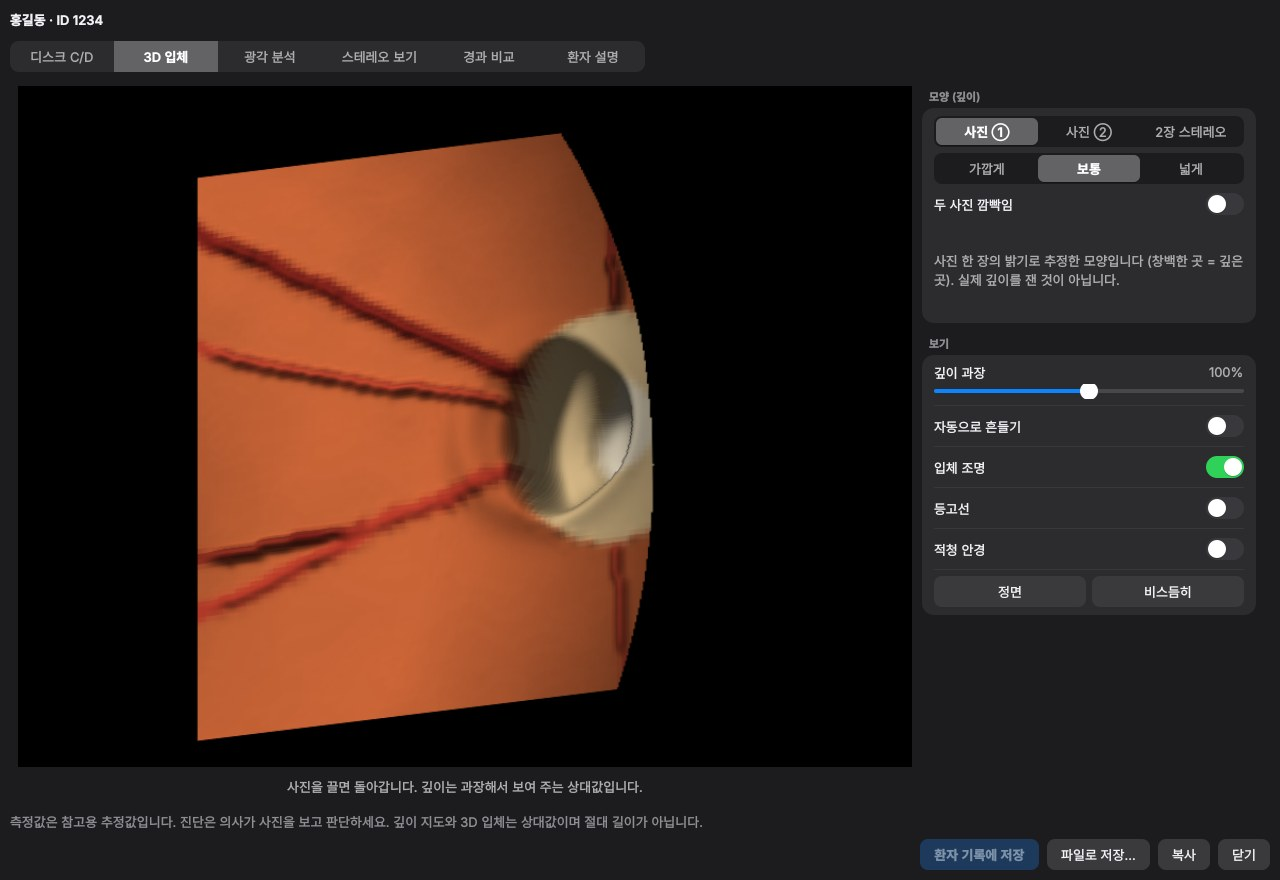
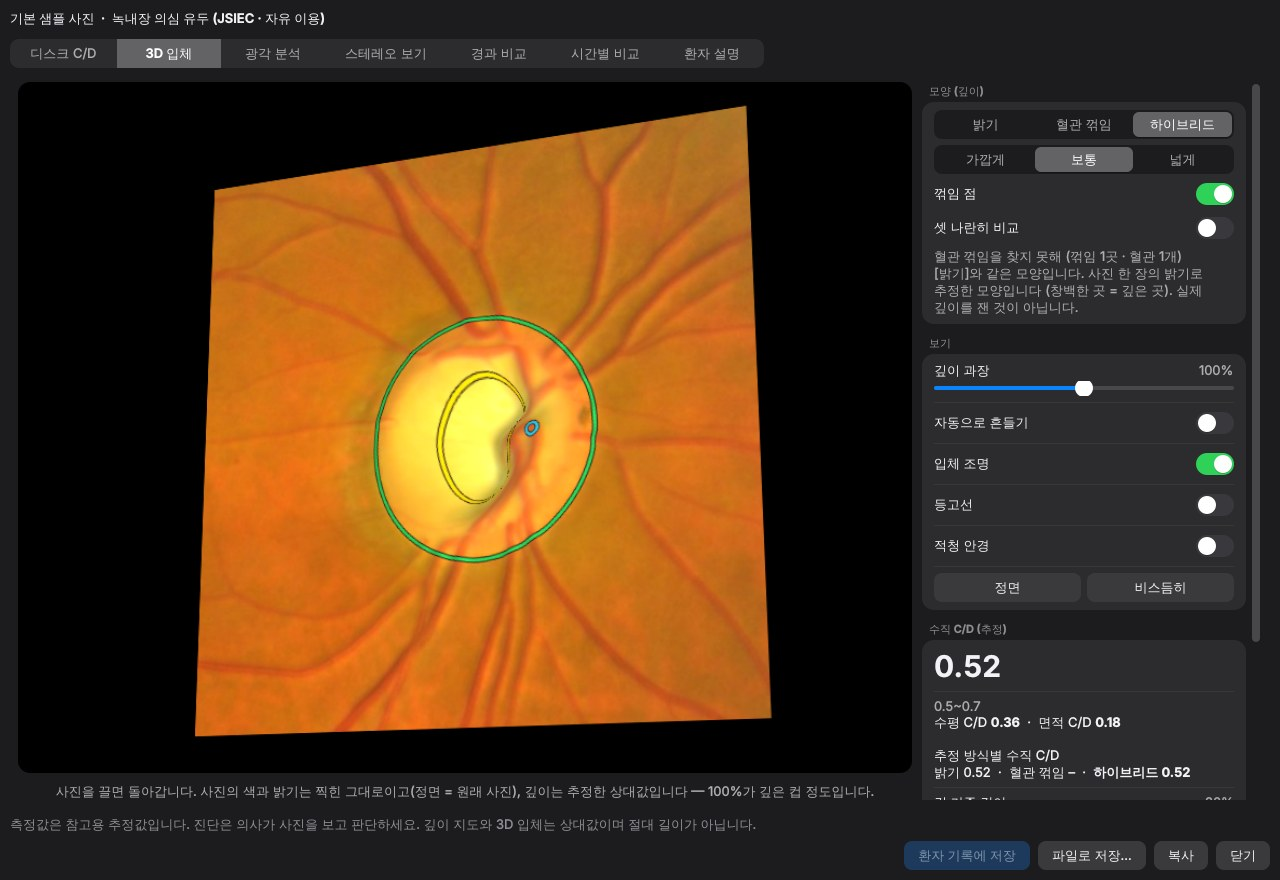
안저 뷰어 0.13.4: 녹내장 분석 · 3D 입체 — 사진 그대로, 자연스러운 깊이 (#117)
3D 입체가 인위적으로 보이던 것을 고쳤다: 찍힌 사진 그대로를 입체 위에 입힌다.

* 사진의 색과 밝기는 그대로: 비스듬한 가상 조명을 강하게 덧씌우던 것(창백한 컵이 검은 구덩이로, 반대쪽에서는 하얗게)을 없앴다. 사진은 카메라 쪽 빛으로 찍혀 그 음영이 이미 들어 있으므로 정면은 원래 사진과 같고, 돌려 볼 때만 보는 쪽으로 향한 경사면을 조금 밝게 · 등진 경사면을 조금 어둡게 한다(disc3d.shade — 사진 밝기의 0.75 ~ 1.14배 안에서).
* 혈관은 제 굵기의 절반쯤만, 길이 방향으로 고르게 솟는다(구슬 꿴 돋을새김이 아니게: VESSEL_H 0.14 → 0.07, 어둡기에 따라 높이가 오르내리지 않음).
* 깊이는 실제에 가깝게: 100%에서 가장 깊은 곳이 유두 지름의 0.4배(전에는 0.5배).
* 원근: 기울이면 가까운 쪽이 조금 크게 보인다(disc3d.render의 perspective, 3D 탭은 사진 변 길이의 3배 거리).
* 디스크 · 컵 선과 꺾임 점을 조금 가늘게. 추정 방식과 C/D 추정값은 그대로(합성 유두 평균 오차 0.026).
* README · 변경 내역 · docs/disc_3d.jpg(실제 샘플 사진의 새 화면).

Claude-Session: https://claude.ai/code/session_01SGHFuh2LCE27KasutS4pQG

diff --git a/fundusview/disc3d.py b/fundusview/disc3d.py
@@ -4,13 +4,15 @@ A photo gives the disc's colour, the surface needs its shape. Two ways to a shap
 
 * one photo (:func:`height_from_photo`) — an **estimate from brightness**: the cup is the pale
   part of the disc, so the paler the deeper; the rim stands a little above the retina and the
-  vessels above the surface. A picture of the shape a viewer expects, not a measurement;
+  vessels a little above the surface. A picture of the shape a viewer expects, not a measurement;
 * two photos of the same disc from slightly different positions (:func:`height_from_stereo`) —
   the **parallax** between them (``glaucoma.disparity``): what moves more is deeper. Relative
   depth, not a length.
 
 :func:`render` then draws the photo on that surface seen from any direction — an exact view of
-the height field (nearer parts hide farther ones), computed without OpenGL.
+the height field (nearer parts hide farther ones), computed without OpenGL. It is the photo that is
+seen: its own colours and its own light (:func:`shade` adds only what turning it changes), at the
+depth a real cup has — the front view is the photo as it was taken.
 
 Heights run from -1 (deepest) to about +1, 0 = the retina around the disc; x right, y down.
 """
@@ -25,14 +27,16 @@ import numpy as np
 from . import glaucoma as G
 
 TEX_PX = 640             # side of the disc-centred texture (and of the picture drawn from it)
-DEPTH_DD = 0.5           # depth of height -1 at 100 %: half a disc diameter (the cup, exaggerated)
+DEPTH_DD = 0.4           # depth of height -1 at 100 %: 0.4 disc diameters — about a deep cup's (0.7 mm)
 RIM_H = 0.16             # the neuroretinal rim / peripapillary retina, raised a little
-VESSEL_H = 0.14          # a vessel's top
+VESSEL_H = 0.07          # a vessel's top: about half its width above the surface it lies on
 CUP_GAMMA = 2.2          # one photo: depth against pallor (1 = the whole pale disc is the hollow)
 SOLVE_PX = 320           # render: side of the grid the visible surface is solved on
 MIN_PARALLAX_PX = 1.0    # stereo: less parallax than this (at the analysis width) is no depth
-MIN_LIGHT_Z = 0.35       # shade: the light is never lower over the photo's plane than this
-LIGHT = (-0.45, -0.55, 0.70)     # the light in view space: from the upper left, towards the viewer
+SHADE = 0.8              # shade: how much a slope's turn to or from the viewer lightens / darkens it
+SHADE_RANGE = (0.75, 1.14)       # … and never more than this (the photo keeps its own colours)
+MIN_VIEW_Z = 0.5         # shade: the viewer is never lower over the photo's plane than this
+VIEW_DIST = 3.0          # the 3D tab's camera: this many sides of the picture away (a slight perspective)
 
 
 def _smoothstep(x: np.ndarray) -> np.ndarray:
@@ -110,8 +114,9 @@ def _finish(H: np.ndarray, p: dict) -> np.ndarray:
     vk = 2 * max(1, int(round(rd * 0.09))) + 1
     hat = cv2.morphologyEx(g, cv2.MORPH_BLACKHAT, cv2.getStructuringElement(cv2.MORPH_ELLIPSE, (vk, vk)))
     top = float(np.percentile(hat, 99.5))
-    if top > 4.0:                                               # (below a third of the darkest: grain, not vessels)
-        H = H + VESSEL_H * cv2.GaussianBlur(np.clip((hat / top - 0.33) / 0.67, 0.0, 1.0), (0, 0), 1.2)
+    if top > 4.0:                                               # (below a sixth of the darkest: grain, not vessels)
+        # as high all along a vessel, whatever its darkness from place to place: a rounded ridge, not beads
+        H = H + VESSEL_H * cv2.GaussianBlur(_smoothstep((hat / top - 0.15) / 0.30), (0, 0), 1.4)
     H = cv2.GaussianBlur(H, (0, 0), max(0.8, rd * 0.035))
     return np.clip(H * _edge_taper(n), -1.0, 1.0).astype(np.float32)
 
@@ -641,23 +646,29 @@ def rotation(yaw_deg: float, pitch_deg: float) -> np.ndarray:
 
 def shade(tex: np.ndarray, H: np.ndarray, depth_px: float, R: np.ndarray, strength: float = 1.0,
           contours: bool = False) -> np.ndarray:
-    """The photo lit from the upper left of the view (slopes towards the light are brighter),
-    with lines of equal height when ``contours``."""
+    """The photo as it was taken, with the little the view adds: a slope turned towards the viewer is
+    a touch lighter, one turned away a touch darker (and lines of equal height when ``contours``).
+
+    The photo was lit along the camera's axis, and that light is in it already — a pale cup is pale,
+    not a dark pit. So nothing is shaded from the front (the front view is the photo itself), and
+    turned, only what the turn changes: as if the examiner's light went round with them. Kept within
+    ``SHADE_RANGE``: the photo keeps its own colours.
+    """
     n = tex.shape[0]
     Hf = cv2.resize(H, (n, n), interpolation=cv2.INTER_CUBIC) if H.shape[0] != n else H
     out = tex.astype(np.float32)
     if strength > 0.0 and depth_px > 0.0:
-        z = Hf * depth_px
+        z = cv2.GaussianBlur(Hf * depth_px, (0, 0), max(0.8, n / 256.0))
         gx = cv2.Sobel(z, cv2.CV_32F, 1, 0, ksize=3) / 8.0
         gy = cv2.Sobel(z, cv2.CV_32F, 0, 1, ksize=3) / 8.0
-        L = R.T @ (np.asarray(LIGHT, np.float64) / np.linalg.norm(LIGHT))    # the light in the object's frame
-        if L[2] < MIN_LIGHT_Z:                                   # turned far: the light stays in front of the
-            xy = float(np.hypot(L[0], L[1]))                     # sheet (behind it the whole photo went dark)
-            L = np.array([L[0] / xy * math.sqrt(1.0 - MIN_LIGHT_Z ** 2), L[1] / xy * math.sqrt(1.0 - MIN_LIGHT_Z ** 2),
-                          MIN_LIGHT_Z])
-        lit = (-gx * L[0] - gy * L[1] + L[2]) / np.sqrt(gx * gx + gy * gy + 1.0)
-        k = np.clip(1.0 + strength * (lit / float(L[2]) - 1.0), 0.35, 1.6)      # (the flat retina: as taken)
-        out *= k[..., None]
+        v = R.T @ np.array([0.0, 0.0, 1.0])                      # towards the viewer, in the photo's frame
+        if v[2] < MIN_VIEW_Z:                                    # turned far: as from MIN_VIEW_Z over the sheet
+            xy = float(np.hypot(v[0], v[1]))
+            v = np.array([v[0] / xy * math.sqrt(1.0 - MIN_VIEW_Z ** 2), v[1] / xy * math.sqrt(1.0 - MIN_VIEW_Z ** 2),
+                          MIN_VIEW_Z])
+        # how much more (or less) the surface faces the viewer than it faced the camera
+        turn = -(gx * v[0] + gy * v[1]) / (float(v[2]) * np.sqrt(gx * gx + gy * gy + 1.0))
+        out *= np.clip(1.0 + strength * SHADE * turn, *SHADE_RANGE)[..., None]
     if contours:
         lv = Hf * 8.0                                                         # 8 lines from 0 to the deepest
         d = np.abs(lv - np.round(lv))
@@ -670,7 +681,7 @@ def shade(tex: np.ndarray, H: np.ndarray, depth_px: float, R: np.ndarray, streng
 
 def render(tex: np.ndarray, H: np.ndarray, depth_px: float, yaw_deg: float = 0.0, pitch_deg: float = 0.0,
            out_px: int | None = None, zoom: float = 0.86, light: float = 1.0, contours: bool = False,
-           background=(0, 0, 0)) -> np.ndarray:
+           background=(0, 0, 0), perspective: float = 0.0) -> np.ndarray:
     """The square photo ``tex`` on the surface ``H`` (heights -1…1, ``depth_px`` texture pixels
     for 1, towards the viewer) seen turned by ``yaw`` / ``pitch``, as an ``out_px``² RGB picture.
 
@@ -678,6 +689,10 @@ def render(tex: np.ndarray, H: np.ndarray, depth_px: float, yaw_deg: float = 0.0
     photo's plane moved by ``h`` along one direction e = A⁻¹d, then the affine A. Turned so that
     e runs along the rows, each row is solved on its own: the first point (the highest one) whose
     moved place reaches a pixel is what is seen there.
+
+    ``perspective``: the camera this many sides of the picture away (0: none, parallel rays) — the
+    near side of the turned sheet is then larger than the far one, as a thing in front of the eye is.
+    The sheet's own depth sets the size (the relief's height on it is small against the distance).
     """
     n = tex.shape[0]
     out_px = out_px or n
@@ -719,6 +734,10 @@ def render(tex: np.ndarray, H: np.ndarray, depth_px: float, yaw_deg: float = 0.0
     s = out_px * zoom / n
     oy, ox = np.mgrid[0:out_px, 0:out_px].astype(np.float64)
     px, py = (ox - co) / s, (oy - co) / s
+    if perspective > 0.0:                                       # a pixel of the camera's picture → where its
+        zc = R[2, :2] @ Ainv                                    # ray meets the sheet, as the parallel view has it
+        near = (perspective * n) / np.maximum(perspective * n + zc[0] * px + zc[1] * py, 1e-6)
+        px, py = px * near, py * near
     ux = Ainv[0, 0] * px + Ainv[0, 1] * py                      # (texture pixels from the centre)
     uy = Ainv[1, 0] * px + Ainv[1, 1] * py
     rx = (cc + q * (cs * ux + sn * uy)).astype(np.float32)

diff --git a/tests/test_disc3d.py b/tests/test_disc3d.py
@@ -93,14 +93,62 @@ def test_render_front_is_the_photo_and_turning_moves_the_deep_part():
     assert tuple(flat[2, 2]) == (0, 0, 0)
     other = disc3d.render(tex, H, 40, -30, 0, zoom=1.0, light=0.0)
     assert (cup_x(deep) - cup_x(flat)) * (cup_x(other) - cup_x(flat)) < 0       # the other way from the other side
-    lit = disc3d.render(tex, H, 40, 0, 0, zoom=1.0)
-    assert np.abs(lit.astype(int) - front.astype(int)).max() > 20   # the slopes catch the light
+    lit = disc3d.render(tex, H, 40, 0, 0, zoom=1.0)                 # from the front: the photo as it was taken,
+    assert np.abs(lit.astype(int) - front.astype(int)).max() <= 1   # its own light — nothing added
+    turned = disc3d.render(tex, H, 40, 30, 0, zoom=1.0)             # turned: the slopes towards the viewer a touch
+    change = turned.astype(int) - deep.astype(int)                  # lighter, those turned away a touch darker
+    assert change.max() > 12 and change.min() < -12
+    seen = deep.sum(axis=2) > 60
+    ratio = turned[seen].astype(float).sum(axis=1) / deep[seen].astype(float).sum(axis=1)
+    assert disc3d.SHADE_RANGE[0] - 0.03 < ratio.min() and ratio.max() < disc3d.SHADE_RANGE[1] + 0.03   # … and no more
     lines = disc3d.render(tex, H, 40, 0, 0, zoom=1.0, light=0.0, contours=True)
     assert (np.abs(lines.astype(int) - front.astype(int)).sum(axis=2) > 60).sum() > 200
     small = disc3d.render(tex, H, 40, 20, -15, out_px=200)
     assert small.shape == (200, 200, 3)
     ana = disc3d.anaglyph(tex, H, 40, 0, 0)
     assert (ana[..., 1] == ana[..., 2]).all() and not (ana[..., 0] == ana[..., 1]).all()
+
+
+def test_a_camera_at_a_distance_draws_the_near_side_larger():
+    tex = np.full((N, N, 3), 140, np.uint8)
+    H = np.zeros((256, 256), np.float32)
+    front = disc3d.render(tex, H, 40, 0, 0, perspective=disc3d.VIEW_DIST, light=0.0)
+    assert (front == disc3d.render(tex, H, 40, 0, 0, light=0.0)).all()          # from the front: no difference
+    flat = disc3d.render(tex, H, 40, 35, 0, light=0.0)                           # parallel rays: both sides as tall
+    near = disc3d.render(tex, H, 40, 35, 0, perspective=disc3d.VIEW_DIST, light=0.0)
+
+    def heights(img):
+        cols = np.nonzero((img.sum(axis=2) > 60).any(axis=0))[0]
+        tall = (img.sum(axis=2) > 60).sum(axis=0)
+        return tall[cols[0] + 2], tall[cols[-1] - 2]
+
+    a, b = heights(flat)
+    assert abs(int(a) - int(b)) <= 2
+    a, b = heights(near)
+    assert abs(int(a) - int(b)) > 0.15 * max(a, b)                              # one side nearer: taller
+    other = disc3d.render(tex, H, 40, -35, 0, perspective=disc3d.VIEW_DIST, light=0.0)
+    c, d = heights(other)
+    assert (int(a) - int(b)) * (int(c) - int(d)) < 0                            # the other side, turned the other way
+    assert tuple(near[2, 2]) == (0, 0, 0) and near.shape == flat.shape
+
+
+def test_vessels_stand_as_even_low_ridges():
+    """A vessel is as high all along, however dark it is from place to place (no beads), and low: about
+    half its width above the surface."""
+    n = N
+    plain = np.full((n, n, 3), (190, 110, 60), np.uint8)
+    img = plain.copy()
+    for x in range(20, n - 20):                                     # one vessel, its darkness going up and down
+        dark = 55 + 20 * np.sin(x / 9.0)
+        img[n // 4 - 2:n // 4 + 3, x] = (150, 110 - dark, 40)
+    img = cv2.GaussianBlur(img, (0, 0), 1.0)
+    rise = disc3d.height_from_photo(img, 1 / 3.5) - disc3d.height_from_photo(plain, 1 / 3.5)
+    row = int(round((n // 4) * rise.shape[0] / n))
+    ridge = rise[row - 2:row + 3, 40:rise.shape[1] - 40].max(axis=0)
+    assert ridge.min() > 0.5 * disc3d.VESSEL_H and ridge.max() < 1.05 * disc3d.VESSEL_H
+    assert ridge.std() < 0.05 * ridge.mean()                        # even along it
+    assert np.abs(rise[row + 25, 40:-40]).max() < 0.01              # beside it: the surface as it was
+    assert disc3d.VESSEL_H <= 0.1 and 0.3 <= disc3d.DEPTH_DD <= 0.45
 
 
 # -- the tab -----------------------------------------------------------------------------------------
@@ -142,7 +190,7 @@ def test_tab_with_one_photo(app):
     tab.s_depth.set(200)
     assert not (tab.compose() == flat).all()
     tab.set_field("wide")
-    assert tab.depth_px() == pytest.approx(2.0 * 0.5 * disc3d.TEX_PX / 5.0)
+    assert tab.depth_px() == pytest.approx(2.0 * disc3d.DEPTH_DD * disc3d.TEX_PX / 5.0)
     dlg.tabs.setCurrentWidget(tab)
     assert dlg.save_to_record() == 5 and saved[-1][1] == tab.note() and saved[-1][3] == [1]
     empty = GlaucomaDialog(None).surface
@@ -334,10 +382,13 @@ def test_the_flat_retina_keeps_its_brightness_however_far_the_surface_is_turned(
     H = np.zeros((128, 128), np.float32)
     H[40:88, 40:88] = -0.5
     H = cv2.GaussianBlur(H, (0, 0), 4)
-    for yaw, pitch in ((0, 0), (30, -35), (-60, 60), (65, -65), (-65, -65)):
+    assert (disc3d.shade(tex, H, 40.0, disc3d.rotation(0, 0)) == tex).all()     # from the front: the photo itself
+    for yaw, pitch in ((30, -35), (-60, 60), (65, -65), (-65, -65)):
         lit = disc3d.shade(tex, H, 40.0, disc3d.rotation(yaw, pitch))
         assert abs(int(lit[5, 5, 0]) - 150) <= 1                    # away from the hollow: as taken
         assert lit[40:88, 40:88].max() > 160 and lit[40:88, 40:88].min() < 140    # its walls: lit and shaded
+        lo, hi = disc3d.SHADE_RANGE                                 # … gently: the photo keeps its colours
+        assert lit.min() >= int(150 * lo) - 1 and lit.max() <= int(150 * hi) + 1
 
 
 # -- one photo: 밝기 · 혈관 꺾임 · 하이브리드 ----------------------------------------------------------

diff --git a/fundusview/ui/glaucoma_dialog.py b/fundusview/ui/glaucoma_dialog.py
@@ -1076,7 +1076,8 @@ class DiscTab(_Tab):
 
 # -- 3D ----------------------------------------------------------------------------------------------
 S3_ONE = "사진 한 장의 밝기로 추정한 모양입니다 (창백한 곳 = 깊은 곳). 실제 깊이를 잰 것이 아닙니다."
-S3_HINT = "사진을 끌면 돌아갑니다. 깊이는 과장해서 보여 주는 상대값입니다."
+S3_HINT = ("사진을 끌면 돌아갑니다. 사진의 색과 밝기는 찍힌 그대로이고(정면 = 원래 사진), 깊이는 추정한 상대값입니다 — "
+           "100%가 깊은 컵 정도입니다.")
 S3_CD = ("입체 표면에서 기준 깊이보다 깊은 곳을 컵(노란 선)으로 본 추정값입니다. 디스크 경계(초록 선)는 "
          "[디스크 C/D] 탭의 초록 선입니다 — 거기서 맞추면 여기도 따라옵니다.")
 S3_SPREAD = 0.10         # two photos' vertical C/D further apart than this: say so
@@ -1198,12 +1199,15 @@ class Surface3DTab(_Tab):
         self.side.addWidget(card("모양 (깊이)", *rows, lines=False))
 
         self.s_depth = _Slider("깊이 과장", 0, 200, 100, 5, lambda v: f"{v:.0f}%")
+        self.s_depth.setToolTip("100%: 가장 깊은 곳이 유두 지름의 0.4배 (깊은 컵 정도, 약 0.7 mm) — 올리면 더 깊게 과장합니다")
         self.s_depth.changed.connect(lambda _v: self._draw())
         self.sw_auto = Switch("자동으로 흔들기")
         self.sw_auto.setChecked(True)
         self.sw_auto.toggled.connect(lambda _on: self._restart())
         self.sw_light = Switch("입체 조명")
         self.sw_light.setChecked(True)
+        self.sw_light.setToolTip("돌려 볼 때 보는 쪽으로 향한 경사면은 조금 밝게, 등진 경사면은 조금 어둡게 — 사진의 색은 그대로.\n"
+                                 "끄면 사진만 입힙니다 (정면에서는 켜도 원래 사진 그대로)")
         self.sw_contour = Switch("등고선")
         self.sw_contour.setToolTip("같은 깊이를 잇는 선 — 파랑은 들어간 곳, 주황은 솟은 곳")
         self.sw_ana = Switch("적청 안경")
@@ -1599,11 +1603,11 @@ class Surface3DTab(_Tab):
         lines = ((G.curve(found[0]), DISC_COLOR), (found[2], CUP_COLOR)) if found else ()
         for line_pts, col in lines:
             line = [np.round(line_pts * 8).astype(np.int32)]
-            cv2.polylines(tex, line, True, (20, 20, 20), 5, cv2.LINE_AA, shift=3)      # (seen on a pale cup too)
+            cv2.polylines(tex, line, True, (20, 20, 20), 4, cv2.LINE_AA, shift=3)      # (seen on a pale cup too)
             cv2.polylines(tex, line, True, (col.red(), col.green(), col.blue()), 2, cv2.LINE_AA, shift=3)
         for (x, y), main in zip(pts, used):
             c = (int(round(x * 8)), int(round(y * 8)))
-            cv2.circle(tex, c, 7 * 8, (20, 20, 20), 4, cv2.LINE_AA, shift=3)
+            cv2.circle(tex, c, 7 * 8, (20, 20, 20), 3, cv2.LINE_AA, shift=3)
             cv2.circle(tex, c, 7 * 8, BEND_USED if main else BEND_INNER, 2, cv2.LINE_AA, shift=3)
         return tex
 
@@ -1612,7 +1616,8 @@ class Surface3DTab(_Tab):
         if H is None:
             return None
         yaw, pitch = self._angles()
-        kw = dict(light=1.0 if self.sw_light.isChecked() else 0.0, contours=self.sw_contour.isChecked())
+        kw = dict(light=1.0 if self.sw_light.isChecked() else 0.0, contours=self.sw_contour.isChecked(),
+                  perspective=disc3d.VIEW_DIST)
         draw = disc3d.anaglyph if self.sw_ana.isChecked() else disc3d.render
         if self.comparing():                             # 나란히: each way to the shape, turned alike
             views = [draw(self._texture(key), self._surface(self.source, key)[0], self.depth_px(), yaw, pitch,

diff --git a/fundusview/__init__.py b/fundusview/__init__.py
@@ -5,6 +5,6 @@ Runs on Windows 10/11 and macOS 14+ (PySide6; the Mac app as built needs what it
 see ``macos_bundle.py``). See ``README.md``.
 """
 
-__version__ = "0.13.3"
+__version__ = "0.13.4"
 APP_NAME = "FundusViewer"
 APP_TITLE = "안저 사진 뷰어 (Fundus Viewer)"

diff --git a/docs/release_notes.md b/docs/release_notes.md
@@ -29,6 +29,17 @@ Mac용은 **Apple Silicon**(M1 · M2 · M3 · M4 …)용만 있습니다 — Int
 4. Mac에서는 Ctrl 대신 ⌘ 키를 씁니다(⌘+클릭 = 두 번째 사진, ⌘1 · ⌘2 · ⌘3 = 보기). 트랙패드의 두 손가락
    벌리기 / 오므리기로 사진과 3D 안구를 확대 · 축소합니다. 메뉴는 화면 맨 위 메뉴 막대에 있습니다.
 
+### 버전 0.13.4 — 녹내장 분석 · 3D 입체: 사진 그대로, 자연스러운 깊이
+3D 입체가 인위적으로 보이던 것을 고쳤습니다 — 이제 **찍힌 사진 그대로**를 입체 위에 입힙니다.
+* **사진의 색과 밝기는 그대로입니다.** 전에는 비스듬한 가상 조명을 강하게 덧씌워, 창백한 컵이 한쪽에서는 검은 구덩이로 다른
+  쪽에서는 하얗게 날아가 보였습니다. 사진은 카메라 쪽 빛으로 찍혀 그 음영이 이미 들어 있으므로, 이제 **정면은 원래 사진과
+  똑같고**, 돌려 볼 때만 보는 쪽으로 향한 경사면을 조금 밝게 · 등진 경사면을 조금 어둡게 합니다(**입체 조명** — 끄면 사진만).
+* **혈관이 구슬 꿴 돋을새김처럼 보이지 않습니다.** 혈관은 제 굵기의 절반쯤만, 길이 방향으로 고르게 솟습니다.
+* **깊이가 실제에 가깝습니다.** 100%에서 가장 깊은 곳이 유두 지름의 0.4배(깊은 컵 정도, 약 0.7 mm) — 전에는 0.5배.
+  더 깊게 보려면 **깊이 과장**을 올립니다(200%까지).
+* **원근**: 기울이면 가까운 쪽이 조금 크게 보여, 평평한 카드가 아니라 눈앞의 물체처럼 보입니다.
+* 디스크 · 컵 선과 꺾임 점을 조금 가늘게 그립니다. 추정 방식(밝기 · 혈관 꺾임 · 하이브리드)과 C/D 추정값은 그대로입니다.
+
 ### 버전 0.13.3 — 녹내장 분석 · 디스크 C/D: 사진에서 찾은 경계 · 점 8개 · 등고선으로 컵 맞추기
 C/D 비를 정확히 재기 위한 개편입니다 — 측정 방법과 문헌 근거는 저장소의 `docs/cd_ratio.md`에 정리했습니다.
 * **선이 사진에서 찾은 자리에서 시작합니다.** 초록 선(디스크 경계)은 밝기가 망막 쪽으로 꺾이는 곳, 노란 선(컵)은 사진에서

diff --git a/docs/cd_ratio.md b/docs/cd_ratio.md
@@ -1,7 +1,7 @@
 # C/D 비 측정 — 방법과 근거
 
 녹내장 분석 창의 **디스크 C/D** 탭이 컵/디스크 비(C/D ratio)를 어떻게 재는지, 왜 그렇게 재는지를 정리한 문서입니다.
-(0.13.3 기준 · 코드: `fundusview/glaucoma.py`, `fundusview/disc3d.py`, `fundusview/ui/glaucoma_dialog.py`)
+(0.13.4 기준 · 코드: `fundusview/glaucoma.py`, `fundusview/disc3d.py`, `fundusview/ui/glaucoma_dialog.py`)
 
 > **요약** — C/D 비 자체는 두 경계선(디스크 · 컵)만 정해지면 정확히 계산됩니다. 어려운 것은 **컵 경계를 어디로 볼
 > 것인가**이고, 사진 한 장으로는 전문가끼리도 최대 0.2까지 차이가 납니다. 그래서 이 탭은 ① 사진에서 찾은 경계를
@@ -83,7 +83,7 @@
 * **계산 자체**: 타원 · 점 8개 곡선 · 손으로 옮긴 모양에 대해 수직 · 수평 · 면적 C/D, 림 두께, DDLS가 해석값과 일치
   (`tests/test_glaucoma.py`). 점 8개를 지나는 곡선은 타원 면적과 0.1% 안에서 일치합니다.
 * **정답을 아는 합성 유두** (디스크 · 컵 크기를 정해 그린 그림, 혈관 · 잡음 포함): 자동 맞춤의 수직 C/D 평균 절대 오차
-  **0.024** (최대 0.08, 정답 0.30–0.85), 디스크 지름 오차 평균 1.4%. 컵이 창백한 부분보다 넓고 혈관이 컵 벽에서 꺾이는
+  **0.026** (최대 0.08, 정답 0.30–0.85), 디스크 지름 오차 평균 1.4%. 컵이 창백한 부분보다 넓고 혈관이 컵 벽에서 꺾이는
   녹내장형 그림(정답 0.6 · 0.7 · 0.8)에서는 하이브리드가 0.58 · 0.68 · 0.78, **밝기만으로는 0.41 · 0.45 · 0.54**로 작게
   나왔습니다 — 1절의 문헌과 같은 방향입니다.
 * **실제 사진** (프로그램 기본 샘플의 정상 · 녹내장 의심 · 고혈압 망막병증 유두): 디스크 경계는 경계가 뚜렷한 유두에서
